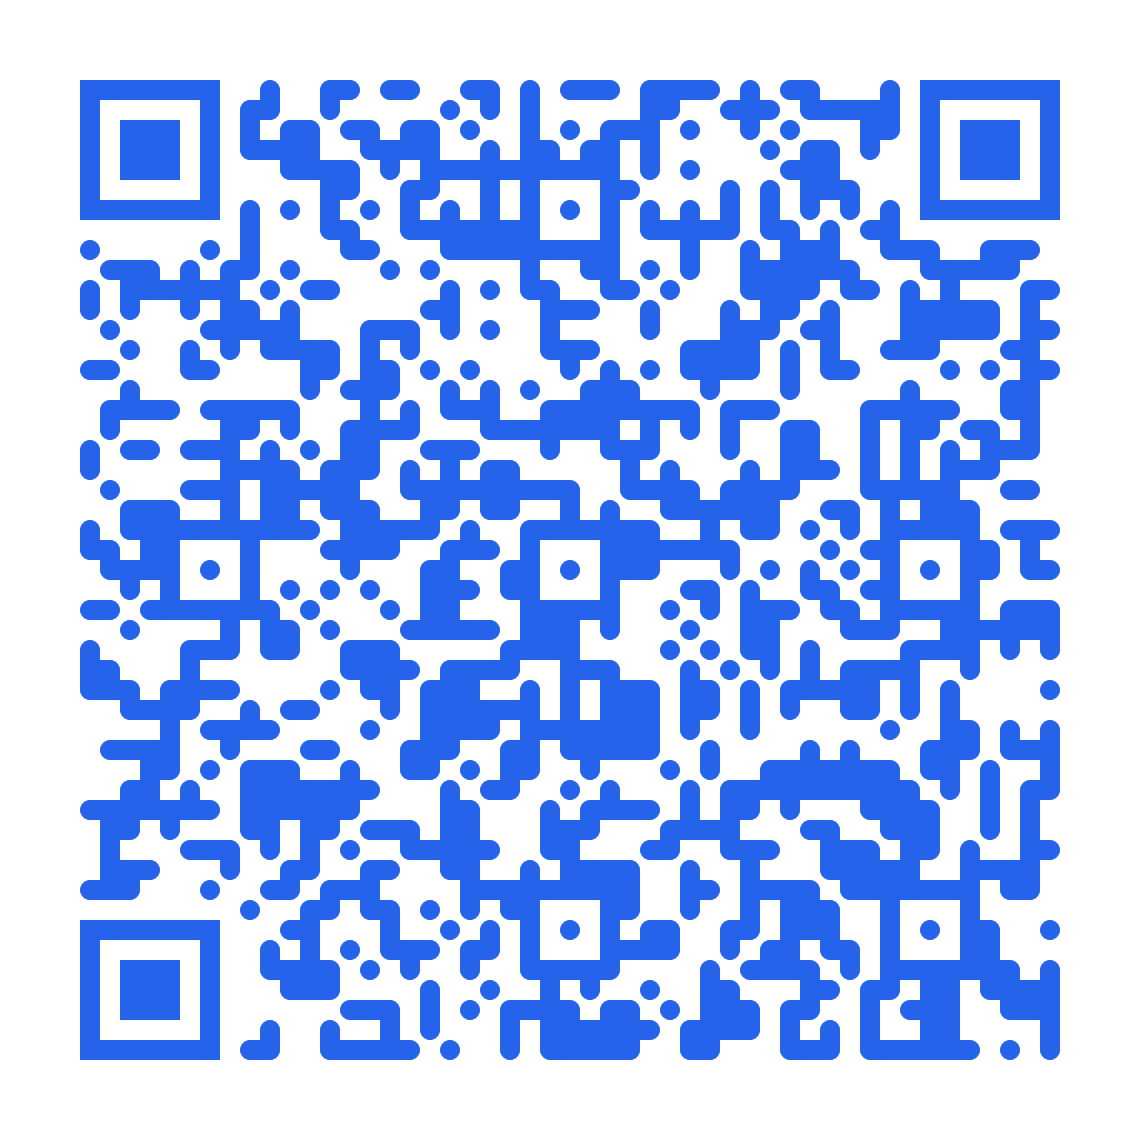
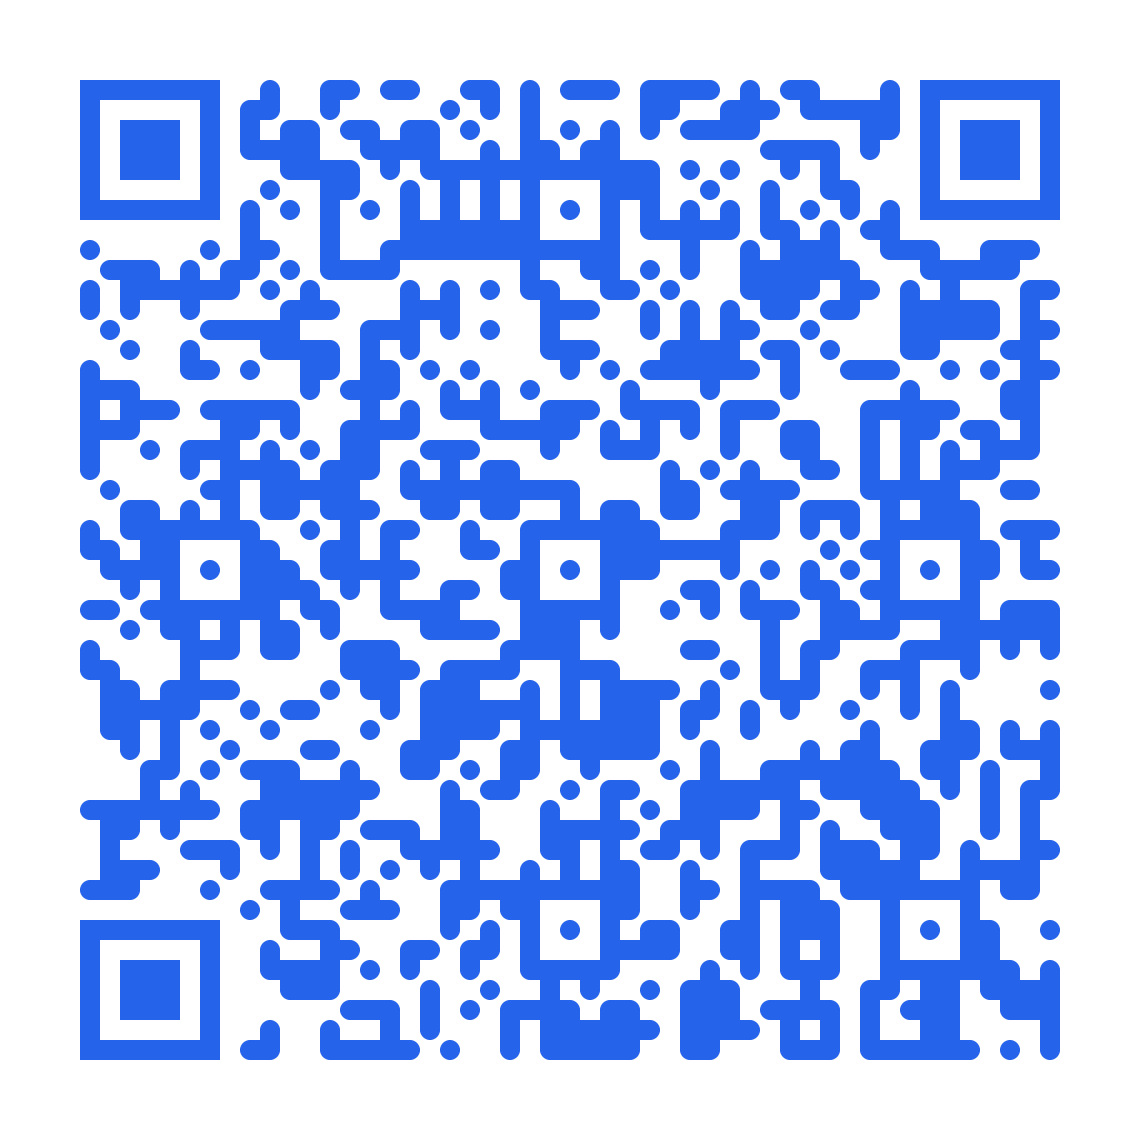
revocer_pwd_2FA_totp => tested route pm

diff --git a/apps/server/src/features/auth/controllers/patch.py b/apps/server/src/features/auth/controllers/patch.py
@@ -1,7 +1,9 @@
 from fastapi import Depends, Request
+from src.decorators.err import ErrAPI
 from src.decorators.res import ResAPI
 from src.features.auth.services.change_pwd import change_pwd_svc
 from src.lib.cookies import gen_refresh_cookie
+from src.lib.etc import grab
 from src.lib.validators.idx import PwdFormT
 from src.middleware.combo.idx import (
     ComboCheckJwtCbcBodyReturnT,
@@ -15,6 +17,29 @@ async def recover_pwd_ctrl(
     result_combo: ComboCheckJwtCbcBodyReturnT = Depends(
         combo_check_jwt_cbc_hmac_body_mdw(
             model=PwdFormT, token_t=TokenT.RECOVER_PWD, check_jwt=False
+        )
+    ),
+) -> ResAPI:
+
+    if grab(result_combo, "totp_secret"):
+        raise ErrAPI(msg="user need to follow 2FA flow", status=403)
+
+    result_tokens = await change_pwd_svc(result_combo)
+
+    return ResAPI.ok_200(
+        msg="password updated",
+        access_token=result_tokens["access_token"],
+        cookies=[
+            gen_refresh_cookie(result_tokens["result_jwe"]["client_token"])
+        ],
+    )
+
+
+async def revocer_pwd_2FA_ctrl(
+    req: Request,
+    result_combo: ComboCheckJwtCbcBodyReturnT = Depends(
+        combo_check_jwt_cbc_hmac_body_mdw(
+            model=PwdFormT, token_t=TokenT.RECOVER_PWD_2FA, check_jwt=False
         )
     ),
 ) -> ResAPI:

diff --git a/apps/server/src/features/verify/controllers/get.py b/apps/server/src/features/verify/controllers/get.py
@@ -6,6 +6,7 @@ from src.decorators.err import ErrAPI
 from src.decorators.res import ResAPI
 from src.lib.cookies import gen_refresh_cookie
 from src.lib.db.idx import get_us_by_id
+from src.lib.etc import grab
 from src.lib.tokens.cbc_hmac import gen_cbc_hmac
 from src.lib.tokens.combo import gen_tokens_session
 from src.middleware.check_cbc_hmac import (
@@ -66,6 +67,13 @@ async def forgot_pwd_ctrl(
                 token_t=TokenT.RECOVER_PWD_2FA,
             )
         )["client_token"]
+
+        await trx.execute(
+            delete(Token).where(
+                (Token.user_id == grab(combo_result, "user_id"))
+                & (Token.token_t == TokenT.RECOVER_PWD)
+            )
+        )
 
         return ResAPI.ok_200(cbc_hmac_token=cbc_hmac)
 

diff --git a/apps/server/src/features/auth/routes/idx.py b/apps/server/src/features/auth/routes/idx.py
@@ -1,6 +1,9 @@
 from fastapi import APIRouter, Depends
 
-from src.features.auth.controllers.patch import recover_pwd_ctrl
+from src.features.auth.controllers.patch import (
+    recover_pwd_ctrl,
+    revocer_pwd_2FA_ctrl,
+)
 from src.features.auth.controllers.post import (
     login_backup_code_ctrl,
     login_ctrl,
@@ -30,6 +33,13 @@ auth_router.add_api_route(
 auth_router.add_api_route(
     "/recover-pwd",
     recover_pwd_ctrl,
+    methods=["PATCH"],
+    dependencies=[Depends(rate_limit_mdw(limit=5))],
+)
+
+auth_router.add_api_route(
+    "/recover-pwd-2FA",
+    revocer_pwd_2FA_ctrl,
     methods=["PATCH"],
     dependencies=[Depends(rate_limit_mdw(limit=5))],
 )

diff --git a/apps/server/src/features/verify/controllers/patch.py b/apps/server/src/features/verify/controllers/patch.py
@@ -1,6 +1,5 @@
 from typing import cast
 from fastapi import Depends, Request
-
 from src.conf.db import db_trx
 from src.decorators.err import ErrAPI
 from src.decorators.res import ResAPI
@@ -53,5 +52,13 @@ async def confirm_new_email_2FA_top_ctrl(
         )
 
 
-async def forgot_pwd_2FA_totp_ctrl(req: Request) -> ResAPI:
-    return ResAPI.ok_200()
+async def forgot_pwd_2FA_totp_ctrl(
+    req: Request,
+    combo_res: ComboCheckJwtCbcBodyReturnT = Depends(
+        combo_check_jwt_cbc_hmac_body_mdw(
+            check_jwt=False, model=TotpFormT, token_t=TokenT.RECOVER_PWD_2FA
+        )
+    ),
+) -> ResAPI:
+
+    return ResAPI.ok_200(msg="verification successful")
